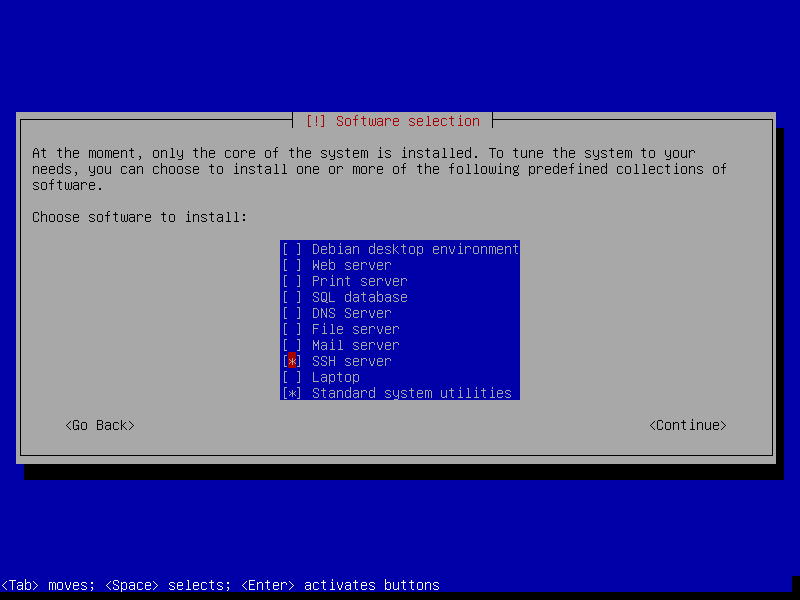
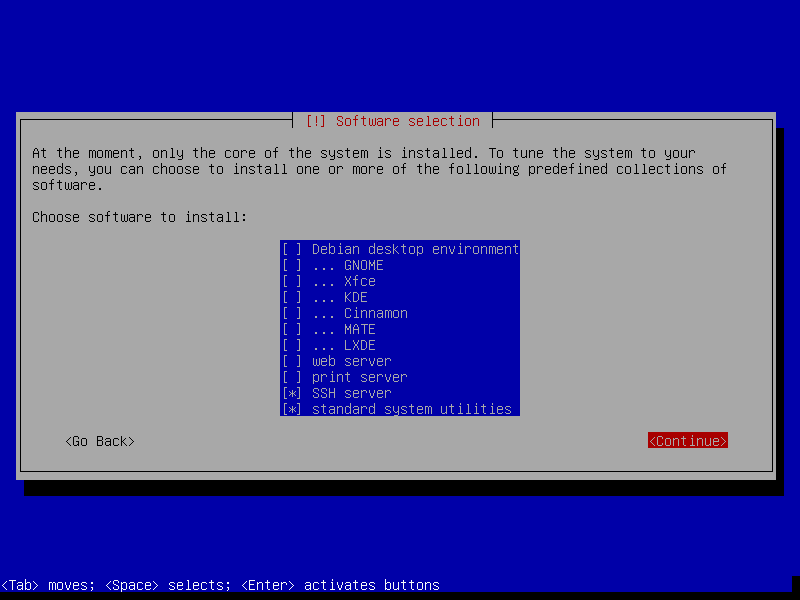
Update gitian build guide for Debian 8.1

Changed region(s): [[0.0, 0.69, 1.0, 0.84], [0.3438, 0.45, 0.6562, 0.72], [0.375, 0.42, 0.4688, 0.48]]

diff --git a/doc/gitian-building.md b/doc/gitian-building.md
@@ -5,7 +5,7 @@ Gitian building
 
 Gitian is the deterministic build process that is used to build the Bitcoin
 Core executables. It provides a way to be reasonably sure that the
-executables are really built from source on GitHub. It also makes sure that
+executables are really built from the source on GitHub. It also makes sure that
 the same, tested dependencies are used and statically built into the executable.
 
 Multiple developers build the source code by following a specific descriptor
@@ -13,8 +13,8 @@ Multiple developers build the source code by following a specific descriptor
 These results are compared and only if they match, the build is accepted and uploaded
 to bitcoin.org.
 
-More independent gitian builders are needed, which is why I wrote this
-guide. It is preferred to follow these steps yourself instead of using someone else's
+More independent gitian builders are needed, which is why this guide exists. 
+It is preferred you follow these steps yourself instead of using someone else's
 VM image to avoid 'contaminating' the build.
 
 Table of Contents
@@ -39,46 +39,46 @@ This guide explains how to set up the environment, and how to start the builds.
 
 Debian Linux was chosen as the host distribution because it has a lightweight install (in contrast to Ubuntu) and is readily available.
 Any kind of virtualization can be used, for example:
-- [VirtualBox](https://www.virtualbox.org/), covered by this guide
+- [VirtualBox](https://www.virtualbox.org/) (covered by this guide)
 - [KVM](http://www.linux-kvm.org/page/Main_Page)
 - [LXC](https://linuxcontainers.org/), see also [Gitian host docker container](https://github.com/gdm85/tenku/tree/master/docker/gitian-bitcoin-host/README.md).
 
-You can also install on actual hardware instead of using virtualization.
+You can also install gitian on actual hardware instead of using virtualization.
 
 Create a new VirtualBox VM
 ---------------------------
 In the VirtualBox GUI click "Create" and choose the following parameters in the wizard:
 
-![](gitian-building/create_vm_page1.png)
+![](gitian-building/create_new_vm.png)
 
-- Type: Linux, Debian (64 bit)
+- Type: Linux, Debian (64-bit)
 
 ![](gitian-building/create_vm_memsize.png)
 
-- Memory Size: at least 1024MB, anything lower will really slow the build down
+- Memory Size: at least 1024MB, anything less will really slow down the build.
 
-![](gitian-building/create_vm_hard_drive.png)
+![](gitian-building/create_vm_hard_disk.png)
 
-- Hard Drive: Create a virtual hard drive now
+- Hard Disk: Create a virtual hard disk now
     
-![](gitian-building/create_vm_hard_drive_file_type.png)
+![](gitian-building/create_vm_hard_disk_file_type.png)
 
-- Hard Drive file type: Use the default, VDI (VirtualBox Disk Image) 
+- Hard Disk file type: Use the default, VDI (VirtualBox Disk Image) 
 
-![](gitian-building/create_vm_storage_physical_hard_drive.png)
+![](gitian-building/create_vm_storage_physical_hard_disk.png)
     
-- Storage on Physical hard drive: Dynamically Allocated 
+- Storage on physical hard disk: Dynamically Allocated 
     
 ![](gitian-building/create_vm_file_location_size.png)
 
-- Disk size: at least 40GB; as low as 20GB *may* be possible, but better to err on the safe side 
-- Push the `Create` button
+- File location and size: at least 40GB; as low as 20GB *may* be possible, but better to err on the safe side 
+- Click `Create`
 
-Get the [Debian 7.8 net installer](http://cdimage.debian.org/cdimage/archive/7.8.0/amd64/iso-cd/debian-7.8.0-amd64-netinst.iso) (a more recent minor version should also work, see also [Debian Network installation](https://www.debian.org/CD/netinst/)).
+Get the [Debian 8.1 net installer](http://cdimage.debian.org/debian-cd/8.1.0/amd64/iso-cd/debian-8.1.0-amd64-netinst.iso) (a more recent minor version should also work, see also [Debian Network installation](https://www.debian.org/CD/netinst/)).
 This DVD image can be validated using a SHA256 hashing tool, for example on
 Unixy OSes by entering the following in a terminal:
 
-    echo "e39c36d6adc0fd86c6edb0e03e22919086c883b37ca194d063b8e3e8f6ff6a3a  debian-7.8.0-amd64-netinst.iso" | sha256sum -c
+    echo "5d0a1f804d73aee73eee7efbb38456390558094fd19894a573f1514ca44347e0  debian-8.1.0-amd64-netinst.iso" | sha256sum -c
     # (must return OK)
 
 After creating the VM, we need to configure it. 
@@ -115,8 +115,9 @@ This section will explain how to install Debian on the newly created VM.
 
 ![](gitian-building/debian_install_1_boot_menu.png)
 
-**Note**: Navigation in the Debian installer: To keep a setting at the default
-and proceed, just press `Enter`. To select a different button, press `Tab`.
+**Note**: Navigating in the Debian installer: 
+To keep a setting at the default and proceed, just press `Enter`. 
+To select a different button, press `Tab`.
 
 - Choose locale and keyboard settings (doesn't matter, you can just go with the defaults or select your own information)
 
@@ -126,7 +127,7 @@ and proceed, just press `Enter`. To select a different button, press `Tab`.
 
 - The VM will detect network settings using DHCP, this should all proceed automatically
 - Configure the network: 
-  - System name `debian`.
+  - Hostname `debian`.
   - Leave domain name empty.
 
 ![](gitian-building/debian_install_5_configure_the_network.png)
@@ -136,6 +137,7 @@ and proceed, just press `Enter`. To select a different button, press `Tab`.
 ![](gitian-building/debian_install_6a_set_up_root_password.png)
 
 - Name the new user `debian` (the full name doesn't matter, you can leave it empty) 
+- Set the account username as `debian`
 
 ![](gitian-building/debian_install_7_set_up_user_fullname.png)
 ![](gitian-building/debian_install_8_set_up_username.png)
@@ -158,13 +160,9 @@ and proceed, just press `Enter`. To select a different button, press `Tab`.
 
 ![](gitian-building/debian_install_12_choose_disk.png)
 
-  - Partitioning scheme: All files in one partition 
-  
-![](gitian-building/debian_install_13_partition_scheme.png)
-
   - Finish partitioning and write changes to disk -> *Yes* (`Tab`, `Enter` to select the `Yes` button)
 
-![](gitian-building/debian_install_14_finish.png) 
+![](gitian-building/debian_install_14_finish.png)
 ![](gitian-building/debian_install_15_write_changes.png)
 
 - The base system will be installed, this will take a minute or so
@@ -172,50 +170,78 @@ and proceed, just press `Enter`. To select a different button, press `Tab`.
 
 ![](gitian-building/debian_install_16_choose_a_mirror.png)
 
-- Enter proxy information (unless you are on an intranet, you can leave this empty)
+- Enter proxy information (unless you are on an intranet, leave this empty)
 
 ![](gitian-building/debian_install_18_proxy_settings.png)
 
 - Wait a bit while 'Select and install software' runs
 - Participate in popularity contest -> *No*
-- Choose software to install. We need just the base system. 
-
-![](gitian-building/debian_install_19_software_selection.png)
-
+- Choose software to install. We need just the base system.
 - Make sure only 'SSH server' and 'Standard System Utilities' are checked
 - Uncheck 'Debian Desktop Environment' and 'Print Server'
 
+![](gitian-building/debian_install_19_software_selection.png)
+
+- Install the GRUB boot loader to the master boot record? -> Yes
+
 ![](gitian-building/debian_install_20_install_grub.png)
 
-- Install the GRUB boot loader to the master boot record? -> Yes 
+- Device for boot loader installation -> ata-VBOX_HARDDISK
 
-![](gitian-building/debian_install_21_finish_installation.png)
+![](gitian-building/debian_install_21_install_grub_bootloader.png)
 
 - Installation Complete -> *Continue*
 - After installation, the VM will reboot and you will have a working Debian VM. Congratulations!
+
+![](gitian-building/debian_install_22_finish_installation.png)
+
+
+After Installation
+-------------------
+The next step in the guide involves logging in as root via SSH.
+SSH login for root users is disabled by default, so we'll enable that now.
+
+Login to the VM using username `root` and the root password you choose earlier.
+You'll be presented with a screen similar to this.
+
+![](gitian-building/debian_root_login.png)
+
+Type:
+
+```
+sed -i 's/^PermitRootLogin.*/PermitRootLogin yes/' /etc/ssh/sshd_config
+```
+and press enter. Then,
+```
+/etc/init.d/ssh restart
+```
+and enter to restart SSH. Logout by typing 'logout' and pressing 'enter'.
 
 Connecting to the VM
 ----------------------
 
 After the VM has booted you can connect to it using SSH, and files can be copied from and to the VM using a SFTP utility.
 Connect to `localhost`, port `22222` (or the port configured when installing the VM).
-On Windows you can use putty[1] and WinSCP[2].
+On Windows you can use [putty](http://www.chiark.greenend.org.uk/~sgtatham/putty/download.html) and [WinSCP](http://winscp.net/eng/index.php).
 
-For example to connect as `root` from a Linux command prompt use
+For example, to connect as `root` from a Linux command prompt use
 
     $ ssh root@localhost -p 22222
     The authenticity of host '[localhost]:22222 ([127.0.0.1]:22222)' can't be established.
-    ECDSA key fingerprint is 8e:71:f9:5b:62:46:de:44:01:da:fb:5f:34:b5:f2:18.
+    RSA key fingerprint is ae:f5:c8:9f:17:c6:c7:1b:c2:1b:12:31:1d:bb:d0:c7.
     Are you sure you want to continue connecting (yes/no)? yes
-    Warning: Permanently added '[localhost]:22222' (ECDSA) to the list of known hosts.
+    Warning: Permanently added '[localhost]:22222' (RSA) to the list of known hosts.
     root@localhost's password: (enter root password configured during install)
-    Linux debian 3.2.0-4-amd64 #1 SMP Debian 3.2.54-2 x86_64
+
+    The programs included with the Debian GNU/Linux system are free software;
+    the exact distribution terms for each program are described in the
+    individual files in /usr/share/doc/*/copyright.
+
+    Debian GNU/Linux comes with ABSOLUTELY NO WARRANTY, to the extent
+    permitted by applicable law.
     root@debian:~#
 
 Replace `root` with `debian` to log in as user.
-
-[1] http://www.chiark.greenend.org.uk/~sgtatham/putty/download.html
-[2] http://winscp.net/eng/index.php
 
 Setting up Debian for gitian building
 --------------------------------------
@@ -226,12 +252,9 @@ First we need to log in as `root` to set up dependencies and make sure that our
 user can use the sudo command. Type/paste the following in the terminal:
 
 ```bash
-apt-get install git ruby sudo apt-cacher-ng qemu-utils debootstrap lxc python-cheetah parted kpartx bridge-utils
+apt-get install git ruby sudo apt-cacher-ng qemu-utils debootstrap lxc python-cheetah parted kpartx bridge-utils make ubuntu-archive-keyring
 adduser debian sudo
 ```
-
-When you get a colorful screen with a question about the 'LXC directory', just
-go with the default (`/var/lib/lxc`).
 
 Then set up LXC and the rest with the following, which is a complex jumble of settings and workarounds:
 
@@ -255,7 +278,7 @@ reboot
 ```
 
 At the end the VM is rebooted to make sure that the changes take effect. The steps in this
-section need only to be performed once.
+section only need to be performed once.
 
 Installing gitian
 ------------------
@@ -300,26 +323,26 @@ cd gitian-builder
 bin/make-base-vm --lxc --arch amd64 --suite precise
 ```
 
-There will be a lot of warnings printed during build of the image. These can be ignored.
+There will be a lot of warnings printed during the build of the image. These can be ignored.
 
 **Note**: When sudo asks for a password, enter the password for the user *debian* not for *root*.
 
 Getting and building the inputs
 --------------------------------
 
-Follow the instructions in [doc/release-process.md](release-process.md) in the bitcoin repository
-under 'Fetch and build inputs' to install sources which require manual intervention. Also follow
-the next step: 'Seed the Gitian sources cache', which will fetch all necessary source files allowing
-for gitian to work offline.
+Follow the instructions in [doc/release-process.md](release-process.md#fetch-and-build-inputs-first-time-or-when-dependency-versions-change) 
+in the bitcoin repository to install sources which require manual intervention. Also follow
+the next step: 'Seed the Gitian sources cache', which will fetch all the necessary source 
+files to allow gitian to work offline.
 
 Building Bitcoin
 ----------------
 
 To build Bitcoin (for Linux, OSX and Windows) just follow the steps under 'perform
-gitian builds' in [doc/release-process.md](release-process.md) in the bitcoin repository.
+gitian builds' in [doc/release-process.md](release-process.md#perform-gitian-builds) in the bitcoin repository.
 
-This may take a long time as it also builds the dependencies needed for each descriptor.
-These dependencies will be cached after a successful build to avoid rebuilding them where possible.
+This may take some time as it will build all the dependencies needed for each descriptor.
+These dependencies will be cached after a successful build to avoid rebuilding them when possible.
 
 At any time you can check the package installation and build progress with
 
@@ -331,13 +354,13 @@ tail -f var/build.log
 Output from `gbuild` will look something like
 
     Initialized empty Git repository in /home/debian/gitian-builder/inputs/bitcoin/.git/
-    remote: Reusing existing pack: 35606, done.
-    remote: Total 35606 (delta 0), reused 0 (delta 0)
-    Receiving objects: 100% (35606/35606), 26.52 MiB | 4.28 MiB/s, done.
-    Resolving deltas: 100% (25724/25724), done.
+    remote: Counting objects: 57959, done.
+    remote: Total 57959 (delta 0), reused 0 (delta 0), pack-reused 57958
+    Receiving objects: 100% (57959/57959), 53.76 MiB | 484.00 KiB/s, done.
+    Resolving deltas: 100% (41590/41590), done.
     From https://github.com/bitcoin/bitcoin
     ... (new tags, new branch etc)
-    --- Building for precise x86_64 ---
+    --- Building for precise amd64 ---
     Stopping target if it is up
     Making a new image copy
     stdin: is not a tty
